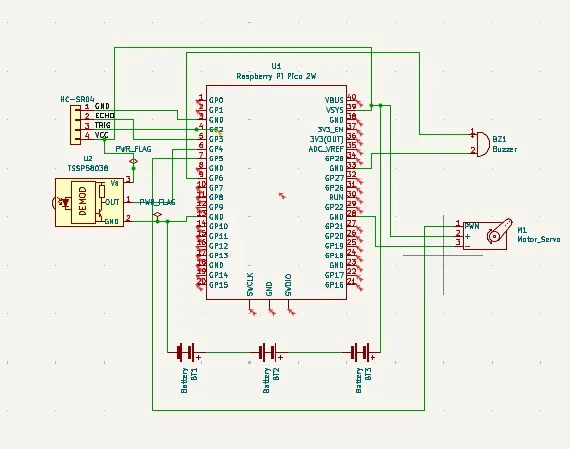
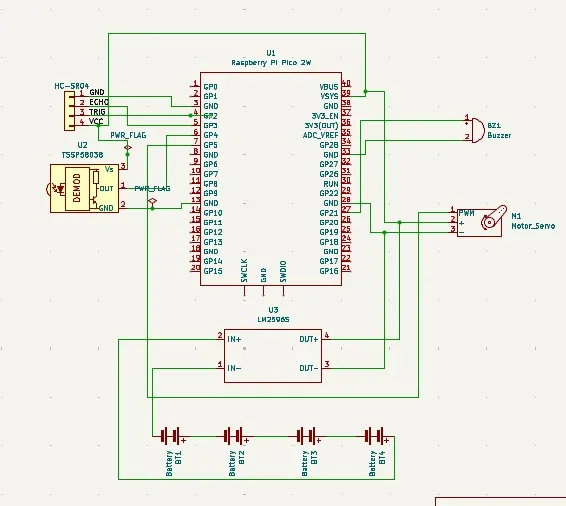
second milestone

Changed region(s): [[0.0601, 0.0624, 0.9912, 0.9666]]

diff --git a/website/versioned_docs/version-acs_cc/project/2025/delia.tudor0907/index.md b/website/versioned_docs/version-acs_cc/project/2025/delia.tudor0907/index.md
@@ -26,11 +26,13 @@ Taking out the trash is a task often postponed, especially in shared living spac
 
 ## Log
 
+## Log
+
 ### Week 5 - 11 May
-- 
+- This week, I focused on shaping the overall concept of the project. I worked on the documentation, clarified the main functionalities, and outlined how the system should behave. I also made a first draft of the list of components I would need, researching their roles and how they would connect together.
 
 ### Week 12 - 18 May
-- 
+- I began working on the hardware side of the project. I started assembling the components, connecting the sensors and microcontroller, and testing how they work together on the breadboard. During this stage, I also finalized and completed the Bill of Materials based on the actual needs of the system.
 
 ### Week 19 - 25 May
 - 
@@ -47,23 +49,28 @@ Taking out the trash is a task often postponed, especially in shared living spac
 - **Battery Holder (2x 18650)** – powers the entire circuit without needing a USB connection.
 - **Mounting Bracket** – securely holds the ultrasonic sensor inside the trash can.
 
+![poza1](./poza1.webp)
+![poza2](./poza2.webp)
+![poza3](./poza3.webp)
+
 ## Schematics
 ![schematics Diagram](./schematic.webp) <!-- replace with the correct path if needed -->
 
 ## Bill of Materials
+## Bill of Materials
 
-| Component                                    | Quantity | Description                                                              | Price (RON) |
-|---------------------------------------------|----------|---------------------------------------------------------------------------|-------------|
-| [Raspberry Pi Pico W](https://www.optimusdigital.ro/ro/placi-raspberry-pi/13327-raspberry-pi-pico-2-w.html) | 2        | Main microcontroller unit                                                | 37.00 x 2   |
-| [HC-SR04 Ultrasonic Sensor](https://www.optimusdigital.ro/ro/senzori-senzori-ultrasonici/2328-senzor-ultrasonic-de-distana-hc-sr04-compatibil-33-v-i-5-v.html) | 2        | Measures distance to detect if the trash bin is full                    | 9.00 x 2    |
-| [Infrared Obstacle Sensor](https://www.optimusdigital.ro/ro/senzori-senzori-optici/4514-senzor-infrarosu-de-obstacole.html) | 1        | Detects hand movement near the trash can                                | 3.50        |
-| [SG90 Micro Servo Motor](https://www.optimusdigital.ro/ro/motoare-servomotoare/2261-micro-servo-motor-sg90-180.html) | 1        | Opens the bin lid automatically                                         | 8.00        |
-| [Active Buzzer 5V](https://www.optimusdigital.ro/en/buzzers/633-buzzer-activ-de-5-v.html) | 1        | Alerts when the bin is full and whose turn it is                        | 2.00        |
-| [LED & Resistor Kit](https://www.optimusdigital.ro/ro/kituri-optimus-digital/9517-set-de-led-uri-asortate-de-5-mm-si-3-mm-310-buc-cu-rezistoare-bonus.html) | 1 set    | Provides visual indicators (e.g., full bin signal)                      | 15.00       |
-| [Breadboard Kit with Wires & Power Supply](https://www.optimusdigital.ro/ro/kituri/2222-kit-breadboard-hq-830-p.html) | 1        | For prototyping and connecting components                               | 22.00       |
-| [Female Pin Headers](https://www.optimusdigital.ro/ro/componente-electronice-headere-de-pini/4166-header-de-pini-mama-20p-254-mm.html) | 4 strips | Connect to male pins on the board and sensors                           | 2.00 x 4    |
-| [Battery Holder (2x18650)](https://www.optimusdigital.ro/ro/suporturi-de-baterii/941-suport-de-baterii-2-x-18650.html) | 1        | Provides portable power to the system                                   | 6.50        |
-| [Bracket for HC-SR04 Sensor](https://www.optimusdigital.ro/en/holders-and-mounting-accessories/7104-mounting-bracked-for-hc-sr04-ultrasonic-sensor-red.html) | 1        | Mounts the ultrasonic sensor in position inside the trash can           | 3.00        |
+| Component | Quantity | Description | Price (RON) |
+|----------|----------|-------------|-------------|
+| [Raspberry Pi Pico W](https://www.optimusdigital.ro/ro/placi-raspberry-pi/13327-raspberry-pi-pico-2-w.html) | 2 | Main microcontroller unit | 37.00 x 2 |
+| [HC-SR04 Ultrasonic Sensor](https://www.optimusdigital.ro/ro/senzori-senzori-ultrasonici/2328-senzor-ultrasonic-de-distana-hc-sr04-compatibil-33-v-i-5-v.html) | 2 | Measures distance to detect if the trash bin is full | 9.00 x 2 |
+| [Infrared Obstacle Sensor](https://www.optimusdigital.ro/ro/senzori-senzori-optici/4514-senzor-infrarosu-de-obstacole.html) | 1 | Detects hand movement near the trash can | 3.50 |
+| [SG90 Micro Servo Motor](https://www.optimusdigital.ro/ro/motoare-servomotoare/2261-micro-servo-motor-sg90-180.html) | 1 | Opens the bin lid automatically | 11.99 |
+| [Active Buzzer 5V](https://www.optimusdigital.ro/en/buzzers/633-buzzer-activ-de-5-v.html) | 1 | Alerts when the bin is full and whose turn it is | 1.40 |
+| [Breadboard Kit with Wires & Power Supply](https://www.optimusdigital.ro/ro/kituri/2222-kit-breadboard-hq-830-p.html) | 1 | For prototyping and connecting components | 22.00 |
+| [Female Pin Headers](https://www.optimusdigital.ro/ro/componente-electronice-headere-de-pini/4166-header-de-pini-mama-20p-254-mm.html) | 4 strips | Connect to male pins on the board and sensors | 2.00 x 4 |
+| [Battery Holder (2x18650)](https://www.optimusdigital.ro/ro/suporturi-de-baterii/941-suport-de-baterii-2-x-18650.html) | 1 | Provides portable power to the system | 3.99 |
+| [DC-DC Step-Down Module LM2596HV](https://www.optimusdigital.ro/ro/surse-coboratoare-reglabile/1108-modul-dc-dc-step-down-lm2596hv.html) | 1 | Regulates voltage from battery to appropriate level for components | 12.99 |
+
 
 <!-- **Estimated Total:** ~168.00 RON -->
 
